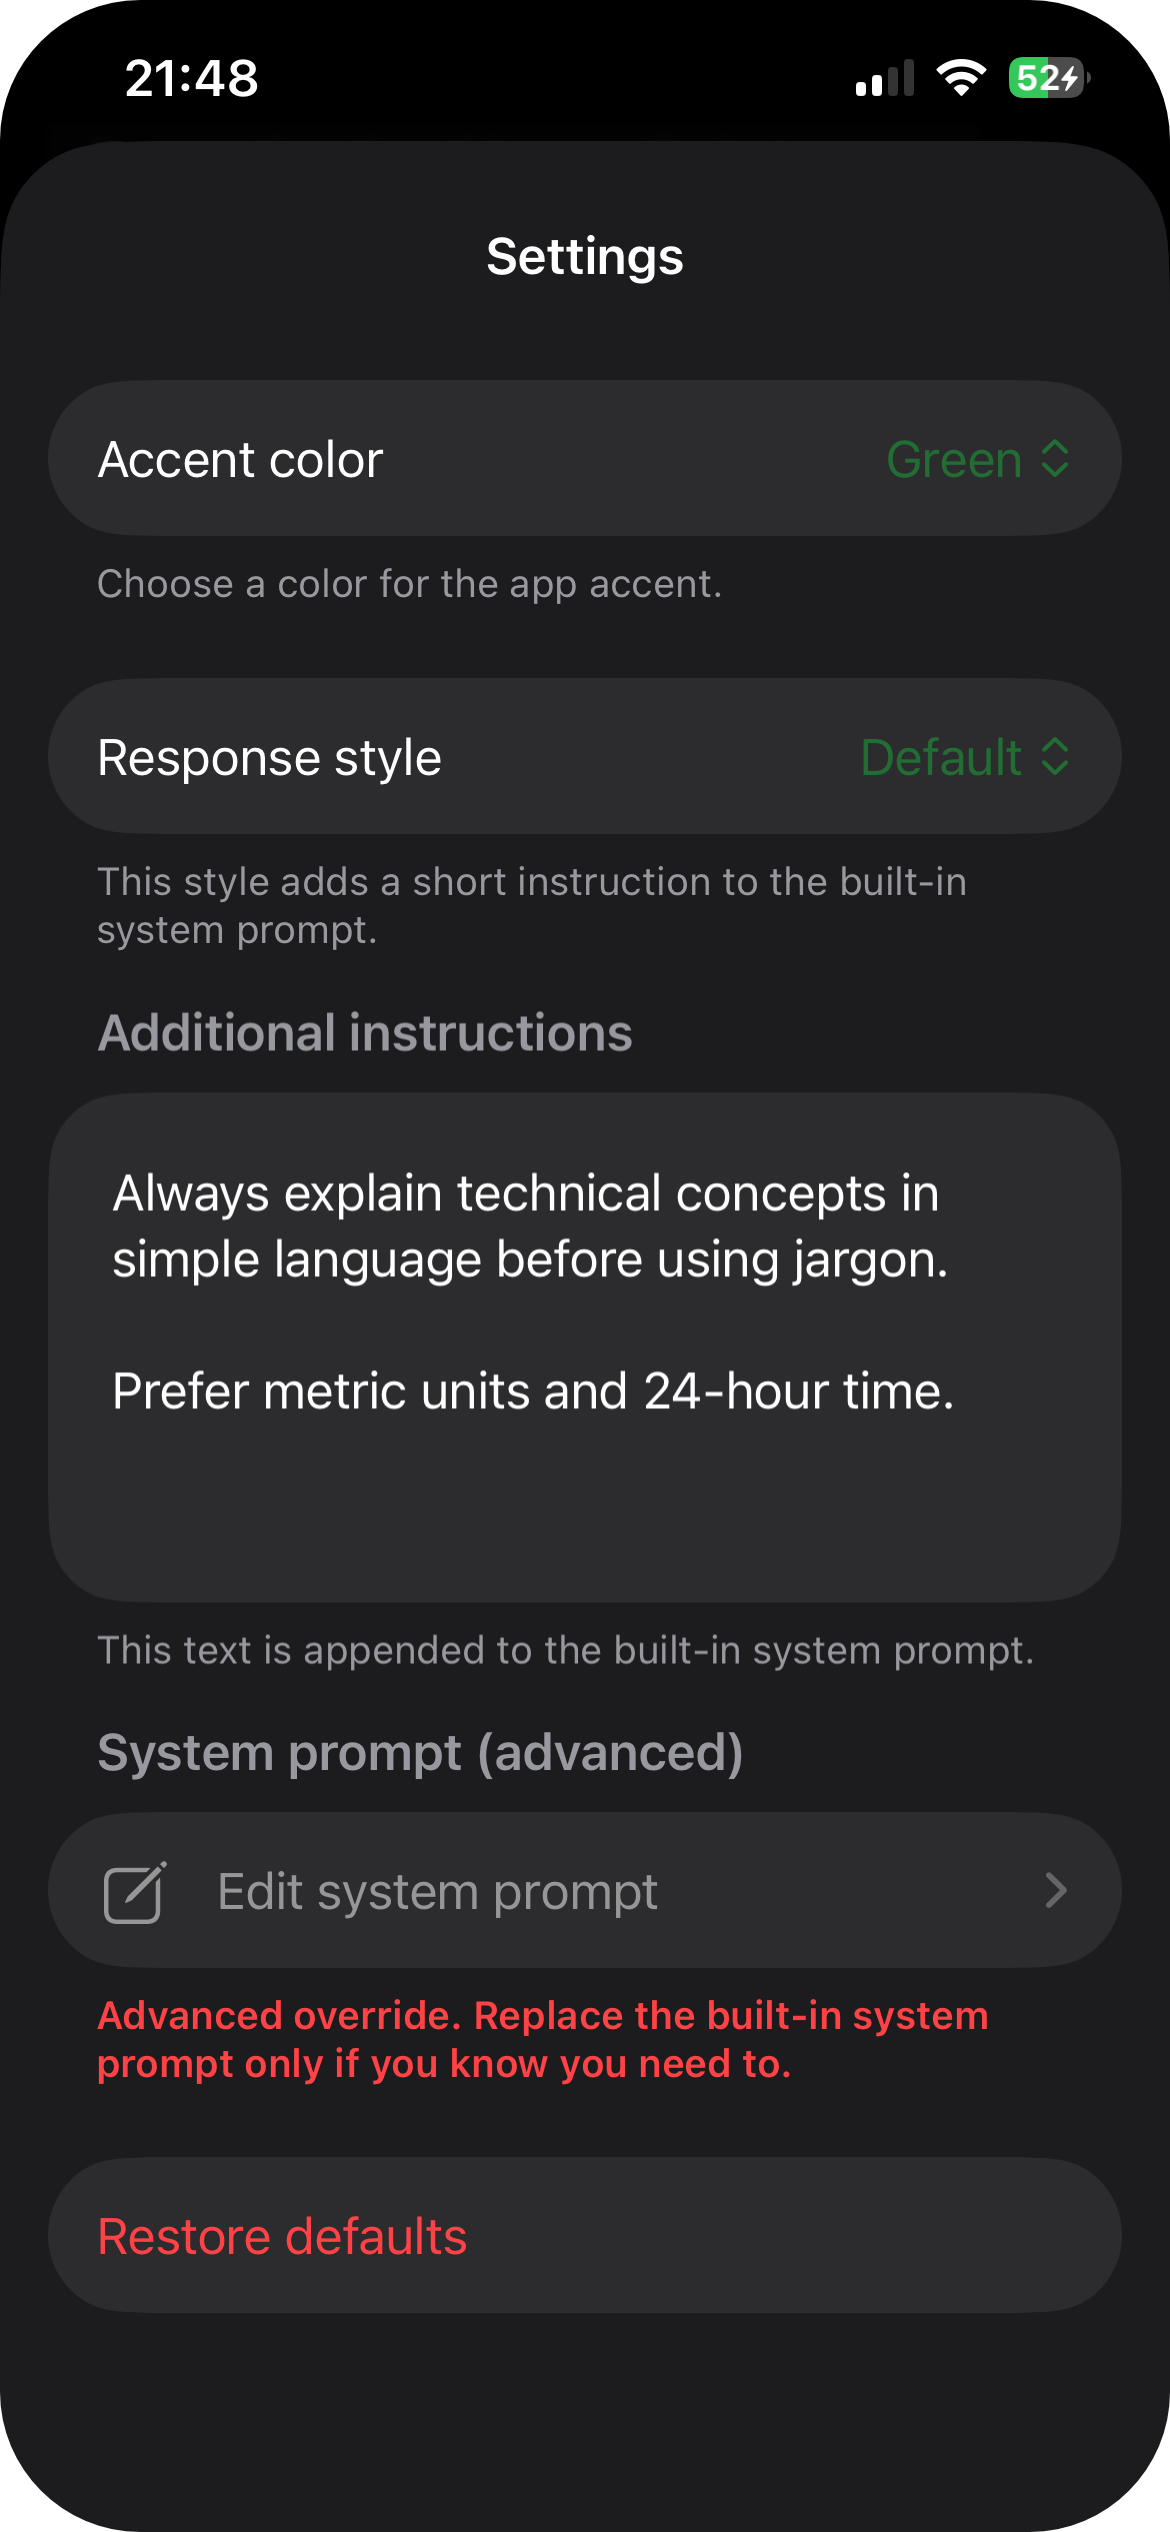
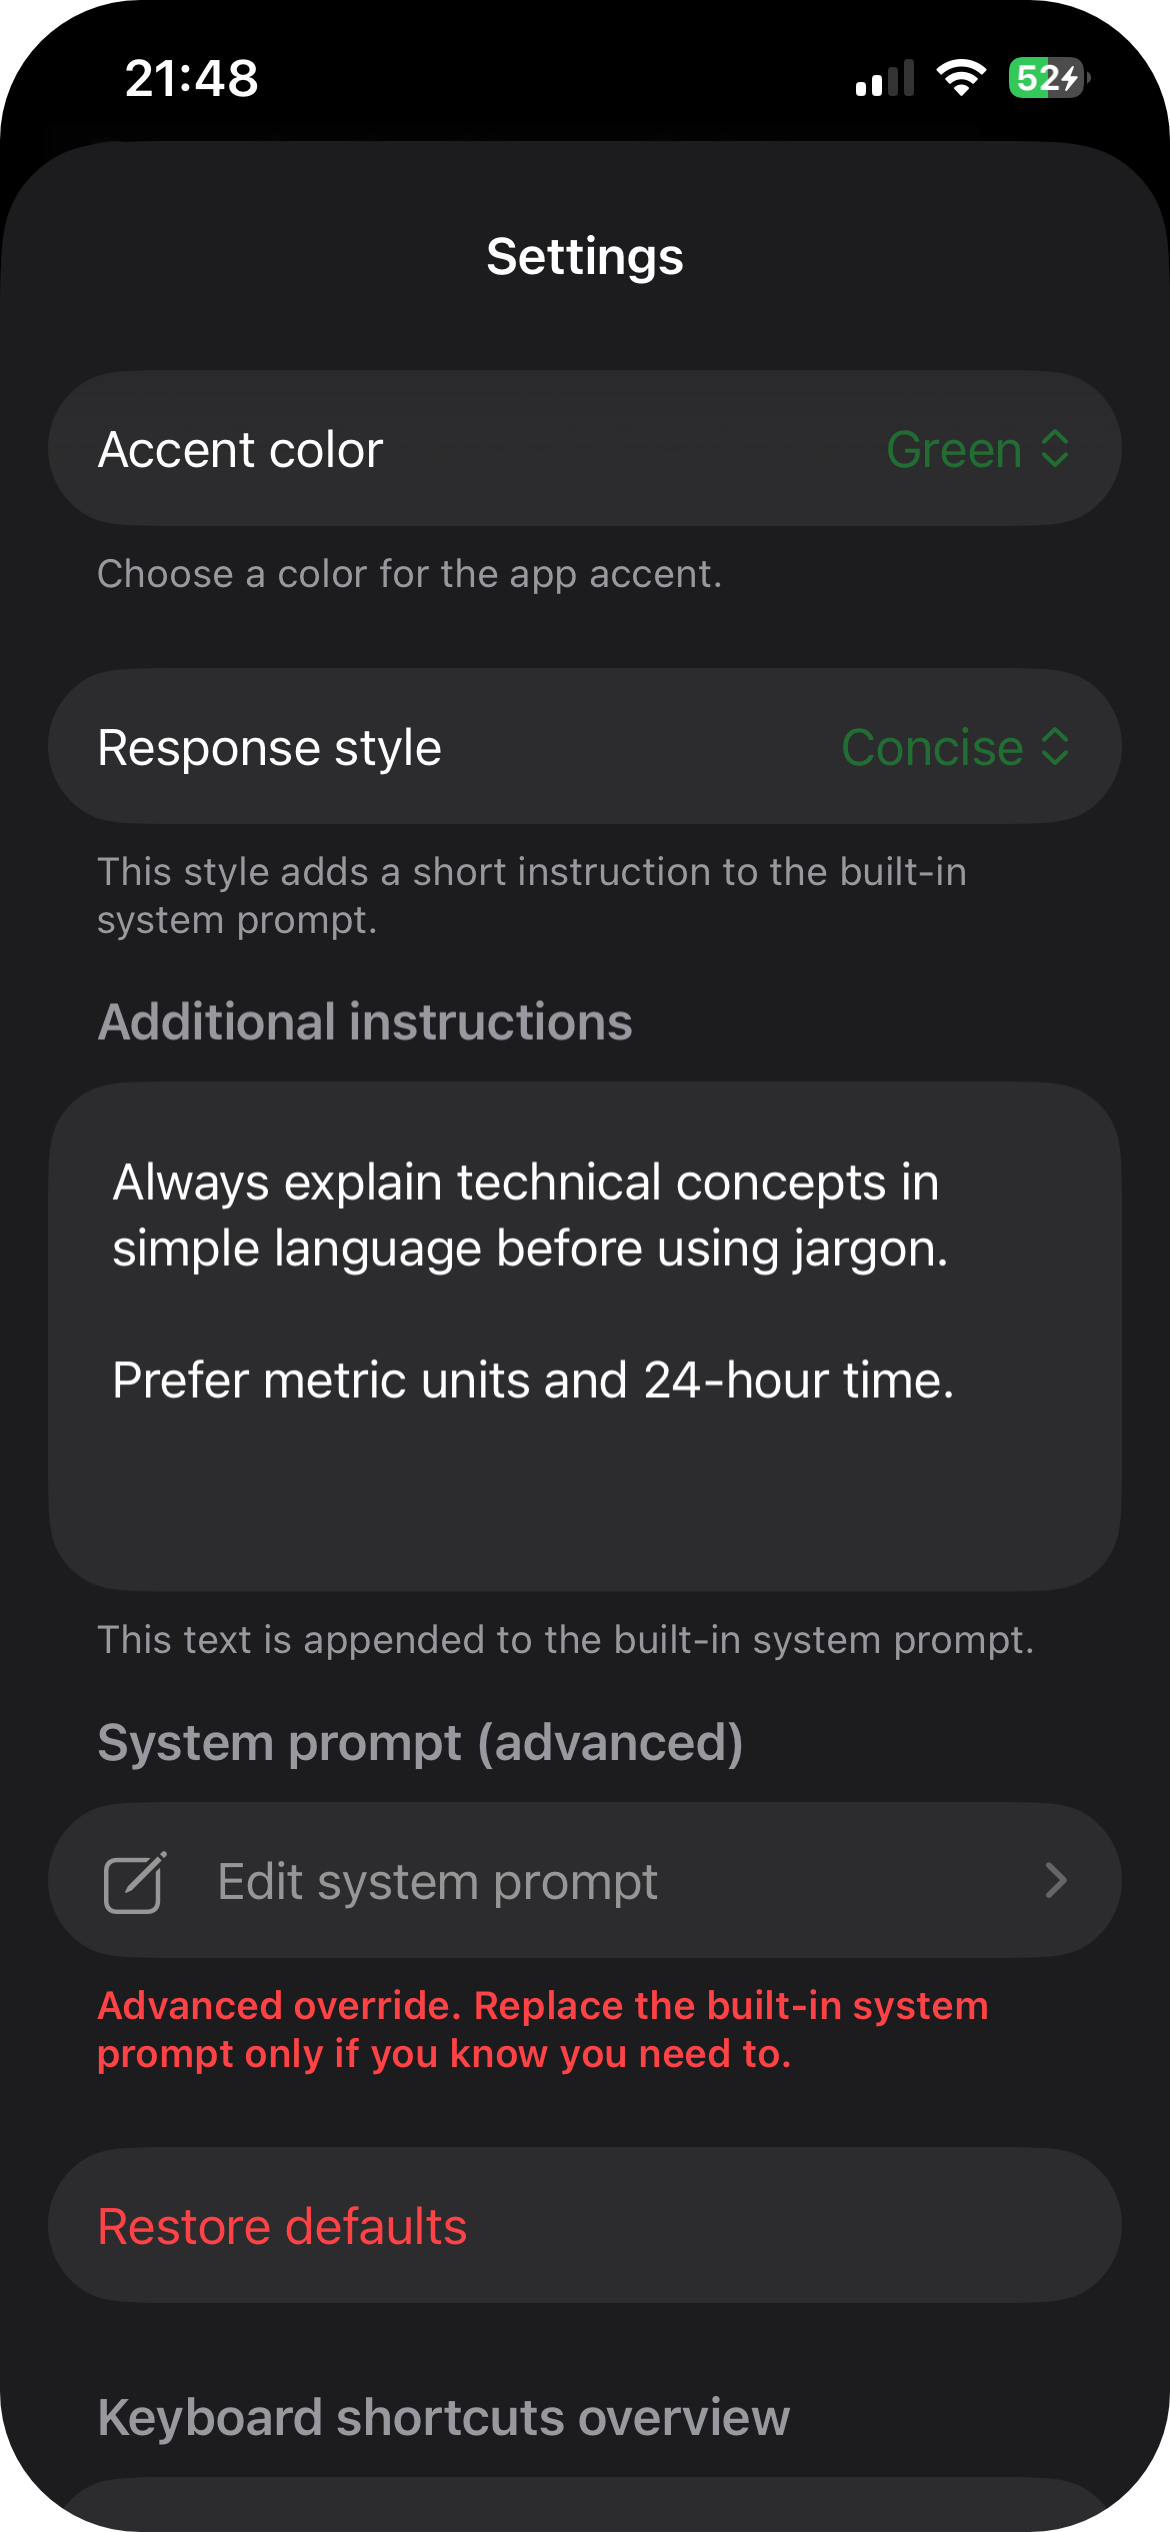
Update README: future directions & screenshots - #6
Show Markdown in chat and additional settings in the updated screenshots.

diff --git a/README.md b/README.md
@@ -101,6 +101,15 @@ It builds the app and runs `xcodebuild test` for `SwiftAIReferenceAppTests`.
 
 No bypass exemptions are configured.
 
+## Possible Future Directions
+
+- **Improvements and reliability:** Faster conversation search and loading, less delay from title generation, and more robust file-backed storage.
+- **Online and hybrid LLM support:** Remote model providers alongside on-device inference, with secure credentials and clear privacy controls.
+- **RAG:** Document attachments, retrieval of relevant passages, and answers with source citations.
+- **Richer Markdown:** Better support for headings, lists, code blocks, and tables in streaming replies.
+- **Multimodal chat:** Image input and speech interaction, depending on model capabilities.
+- **Model management:** Import, select, and manage local models without rebuilding the app.
+
 ## Project structure
 
 ```text
